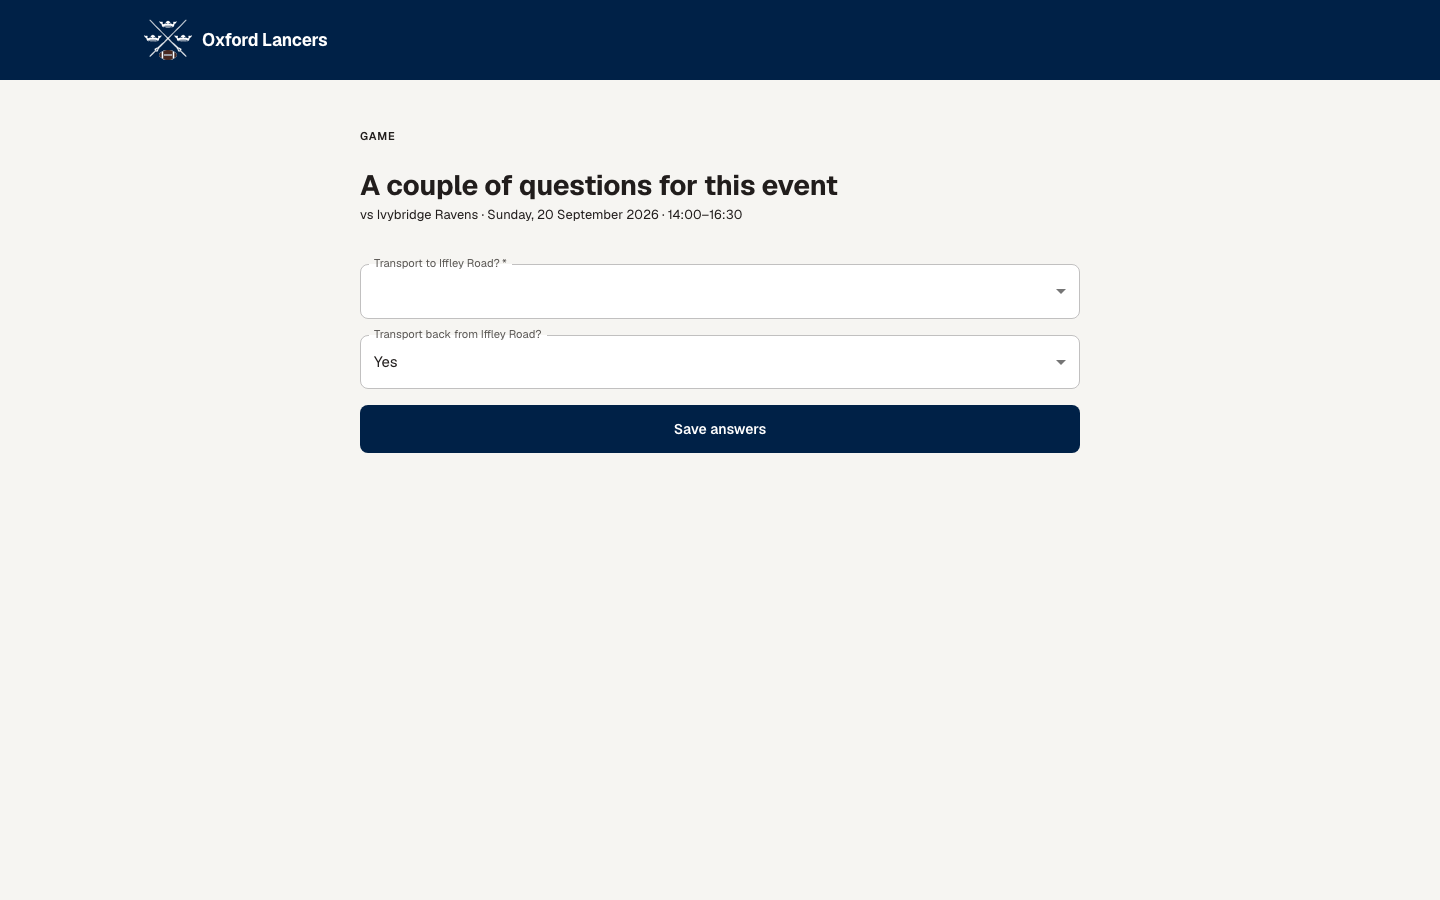
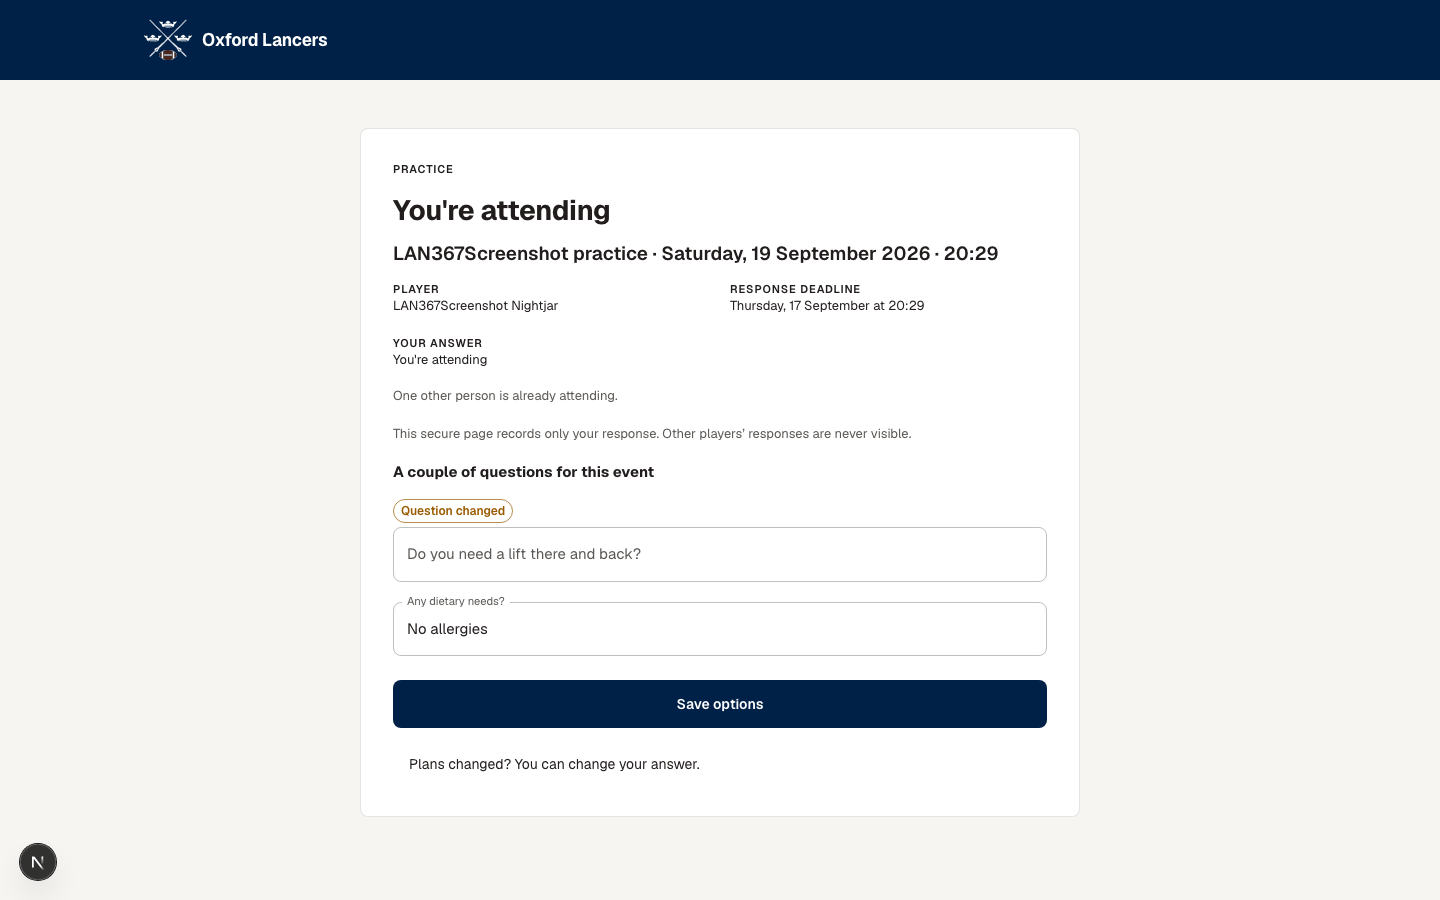
LAN-367: label a re-asked question on the player's pages
A question whose answer was superseded by a change reads as
outstanding on the player's own pages, identically to a question
nobody has ever answered -- the two are indistinguishable, so a
re-asked player has no way to tell "I already answered this once"
from "this is new". Advisory A3 recorded the gap; this closes it.

`readPlayerAnswerLandingIn` (player-home.ts) now reports `wasChanged`
per question -- true only while a superseded answer exists for that
(invitation, question) pair and the question is still genuinely
outstanding; re-answering it clears the flag along with the
outstanding state itself. `QuestionField`, the one component shared by
`/a/<yes|no>/[token]`'s landing, `/questions/[token]` and
`/events/[token]`'s focused panel, renders a small "Question changed"
label beside the field when it is set -- a label only, never a
sentence. Recruitment's own questionnaire (background/[token]) reuses
the same type for an unrelated purpose and never supersedes, so its
synthetic questions carry `wasChanged: false`.

Adds a database test proving the distinction (a superseded answer
marks `wasChanged`; a brand new question does not; re-answering clears
it) and a screens test proving the label renders on exactly the
changed question. Re-captures the LAN-367 player-questions-outstanding
screenshot pair (desktop and 375px), built against a real superseded
answer and a real answer-link token, and updates the README line.

diff --git a/src/lib/services/player-home.test.ts b/src/lib/services/player-home.test.ts
@@ -386,6 +386,66 @@ describe("the answer-specific landing content", () => {
     const landing = await withTransaction((tx) => readPlayerAnswerLandingIn(tx, invitationId));
     expect(landing.outstandingRequiredQuestions).toBe(1);
   });
+
+  // LAN-367 correction (A3): a question superseded by a change is told apart
+  // from one nobody has ever answered — both are "outstanding", but only the
+  // first is `wasChanged`.
+  it("marks a question outstanding because a change superseded its answer, not a brand new one nobody has ever answered", async () => {
+    const { invitationId, eventId } = await fixture(48, "-changed");
+    const changedQuestion = await observer.query<{ id: string }>(
+      `insert into public.event_questions (event_id, prompt, answer_type, is_required, applies_to_capacities)
+       values ($1, 'Need a lift?', 'text', false, '{player}') returning id`,
+      [eventId],
+    );
+    const neverAskedQuestion = await observer.query<{ id: string }>(
+      `insert into public.event_questions (event_id, prompt, answer_type, is_required, applies_to_capacities)
+       values ($1, 'Brand new question', 'text', false, '{player}') returning id`,
+      [eventId],
+    );
+    // The same shape `supersedeAnswersToChangedQuestionsIn` leaves behind: a
+    // live answer voided by a change, current read filters it out.
+    await observer.query(
+      `insert into public.question_responses
+         (invitation_id, event_id, event_question_id, answer_text, superseded_at, superseded_reason)
+       values ($1, $2, $3, 'Yes please', now(), 'question changed')`,
+      [invitationId, eventId, changedQuestion.rows[0].id],
+    );
+
+    const landing = await withTransaction((tx) => readPlayerAnswerLandingIn(tx, invitationId));
+    const changed = landing.questions.find((q) => q.id === changedQuestion.rows[0].id);
+    const brandNew = landing.questions.find((q) => q.id === neverAskedQuestion.rows[0].id);
+
+    expect(changed?.currentAnswer).toBeNull();
+    expect(changed?.wasChanged).toBe(true);
+    expect(brandNew?.currentAnswer).toBeNull();
+    expect(brandNew?.wasChanged).toBe(false);
+  });
+
+  it("stops marking a question wasChanged once the invitee answers it again", async () => {
+    const { invitationId, eventId } = await fixture(48, "-reanswered");
+    const question = await observer.query<{ id: string }>(
+      `insert into public.event_questions (event_id, prompt, answer_type, is_required, applies_to_capacities)
+       values ($1, 'Need a lift?', 'text', false, '{player}') returning id`,
+      [eventId],
+    );
+    await observer.query(
+      `insert into public.question_responses
+         (invitation_id, event_id, event_question_id, answer_text, superseded_at, superseded_reason)
+       values ($1, $2, $3, 'Yes please', now(), 'question changed')`,
+      [invitationId, eventId, question.rows[0].id],
+    );
+    await observer.query(
+      `insert into public.question_responses (invitation_id, event_id, event_question_id, answer_text)
+       values ($1, $2, $3, 'No thanks')`,
+      [invitationId, eventId, question.rows[0].id],
+    );
+
+    const landing = await withTransaction((tx) => readPlayerAnswerLandingIn(tx, invitationId));
+    const reanswered = landing.questions.find((q) => q.id === question.rows[0].id);
+
+    expect(reanswered?.currentAnswer).toEqual({ text: "No thanks", boolean: null, choice: null });
+    expect(reanswered?.wasChanged).toBe(false);
+  });
 });
 
 describe("saving event questions", () => {

diff --git a/src/components/question-field.tsx b/src/components/question-field.tsx
@@ -1,12 +1,15 @@
+import Chip from "@mui/material/Chip";
+import Stack from "@mui/material/Stack";
 import { Field, SelectField } from "@/components/field";
 
 import type { EventQuestionForAnswer } from "@/lib/services/player-home";
 
 /**
  * One event question's answer control — text, boolean or choice. Shared by
- * `/a/<yes|no>/[token]`'s landing page and `/events/[token]`'s focused panel. A hidden
- * `qkind_<id>` field rides beside the answer so the server action can parse
- * `q_<id>` without a second database round trip.
+ * `/a/<yes|no>/[token]`'s landing page, `/questions/[token]`'s own page, and
+ * `/events/[token]`'s focused panel. A hidden `qkind_<id>` field rides
+ * beside the answer so the server action can parse `q_<id>` without a
+ * second database round trip.
  *
  * `enforceRequired` (OWNER-LAN172-18): `/a/<yes|no>/[token]` passes `false` because
  * its confirm button shares one `<form>` with the questions, so native
@@ -27,10 +30,25 @@ export function QuestionField({
   const kindField = (
     <input type="hidden" name={`qkind_${question.id}`} value={question.answerType} />
   );
+  // LAN-367 correction (A3): a label only, beside the question, so an
+  // invitee who already answered once is not left thinking their answer
+  // never arrived — never a sentence, the same rule every other state on
+  // this surface keeps.
+  const changedLabel = question.wasChanged ? (
+    <Chip
+      size="small"
+      variant="outlined"
+      color="warning"
+      label="Question changed"
+      data-testid="question-changed-label"
+      sx={{ alignSelf: "flex-start" }}
+    />
+  ) : null;
 
   if (question.answerType === "boolean") {
     return (
-      <>
+      <Stack spacing={0.5}>
+        {changedLabel}
         {kindField}
         <SelectField
           name={name}
@@ -49,12 +67,13 @@ export function QuestionField({
             { value: "false", label: "No" },
           ]}
         />
-      </>
+      </Stack>
     );
   }
   if (question.answerType === "choice") {
     return (
-      <>
+      <Stack spacing={0.5}>
+        {changedLabel}
         {kindField}
         <SelectField
           name={name}
@@ -66,11 +85,12 @@ export function QuestionField({
             ...(question.choices ?? []).map((choice) => ({ value: choice, label: choice })),
           ]}
         />
-      </>
+      </Stack>
     );
   }
   return (
-    <>
+    <Stack spacing={0.5}>
+      {changedLabel}
       {kindField}
       <Field
         name={name}
@@ -79,6 +99,6 @@ export function QuestionField({
         defaultValue={question.currentAnswer?.text ?? ""}
         slotProps={{ htmlInput: { maxLength: 500 } }}
       />
-    </>
+    </Stack>
   );
 }

diff --git a/src/lib/services/player-home.ts b/src/lib/services/player-home.ts
@@ -44,6 +44,14 @@ export interface EventQuestionForAnswer {
   readonly choices: readonly string[] | null;
   readonly isRequired: boolean;
   readonly currentAnswer: EventQuestionAnswer | null;
+  /**
+   * LAN-367 correction (A3): true when this question reads as outstanding
+   * because a change superseded the invitee's earlier answer to it, rather
+   * than because nobody has ever answered it. `QuestionField` is the one
+   * place this is shown — a short label, never a sentence — so a player who
+   * already answered once is not left thinking their answer never arrived.
+   */
+  readonly wasChanged: boolean;
 }
 
 export interface PlayerAnswerLanding {
@@ -179,9 +187,20 @@ export async function readPlayerAnswerLandingIn(
     answer_text: string | null;
     answer_boolean: boolean | null;
     answer_choice: string | null;
+    was_changed: boolean;
   }>(
     `select q.id, q.prompt, q.answer_type::text as answer_type, q.choices, q.is_required,
-            qr.answer_text, qr.answer_boolean, qr.answer_choice
+            qr.answer_text, qr.answer_boolean, qr.answer_choice,
+            -- LAN-367 correction (A3): outstanding because a change superseded
+            -- this invitee's earlier answer, told apart from a question they
+            -- have simply never answered.
+            exists (
+              select 1
+                from public.question_responses sup
+               where sup.event_question_id = q.id
+                 and sup.invitation_id = $2
+                 and sup.superseded_at is not null
+            ) as was_changed
        from public.event_questions q
        -- LAN-367: a superseded answer is not an answer. The question it was
        -- given to changed after the invitation went out, so it reads as
@@ -209,6 +228,13 @@ export async function readPlayerAnswerLandingIn(
       q.answer_text !== null || q.answer_boolean !== null || q.answer_choice !== null
         ? { text: q.answer_text, boolean: q.answer_boolean, choice: q.answer_choice }
         : null,
+    // A question with a live answer is not "changed, please re-answer" —
+    // that reading applies only while it is genuinely outstanding.
+    wasChanged:
+      q.was_changed &&
+      q.answer_text === null &&
+      q.answer_boolean === null &&
+      q.answer_choice === null,
   }));
 
   return {

diff --git a/src/app/a/[answer]/[token]/screens.test.tsx b/src/app/a/[answer]/[token]/screens.test.tsx
@@ -81,6 +81,18 @@ const QUESTION: EventQuestionForAnswer = {
   choices: null,
   isRequired: true,
   currentAnswer: null,
+  wasChanged: false,
+};
+
+/** LAN-367 correction: outstanding because a change superseded the earlier answer, not because nobody ever answered. */
+const CHANGED_QUESTION: EventQuestionForAnswer = {
+  id: "00000000-0000-4000-8000-0000000000bb",
+  prompt: "Do you need a lift there and back?",
+  answerType: "text",
+  choices: null,
+  isRequired: false,
+  currentAnswer: null,
+  wasChanged: true,
 };
 
 const TOKEN = "y.00000000-0000-4000-8000-000000000079.abcdefghijklmnopqrstuvwxyzABCDEFGHIJKLM01";
@@ -254,6 +266,21 @@ describe("OWNER-LAN172-12 — the Yes landing asks the event's own questions its
     const text = (await renderPage()).container.textContent ?? "";
 
     expect(text).toContain("Plans changed? You can change your answer.");
+  });
+
+  // LAN-367 correction (A3): a question superseded by a change reads as
+  // outstanding here, same as one nobody has ever answered — but it now
+  // carries its own short label, so the two are not mistaken for each other.
+  it("labels a question superseded by a change, and never labels an ordinary outstanding one", async () => {
+    givenAnswer("yes", [QUESTION, CHANGED_QUESTION]);
+    const { container } = await renderPage();
+
+    // Exactly one label, for the two questions rendered — QUESTION (an
+    // ordinary outstanding required question) never gets one.
+    const labels = container.querySelectorAll('[data-testid="question-changed-label"]');
+    expect(labels).toHaveLength(1);
+    expect(labels[0].textContent).toBe("Question changed");
+    expect(container.textContent).toContain(CHANGED_QUESTION.prompt);
   });
 });
 

diff --git a/src/app/background/[token]/interest-questionnaire.tsx b/src/app/background/[token]/interest-questionnaire.tsx
@@ -47,6 +47,9 @@ function questionsFor(answers: RecruitmentQuestionnaireAnswers): readonly EventQ
         answers.playedBefore === null
           ? null
           : { text: null, boolean: answers.playedBefore === "yes", choice: null },
+      // Recruitment's own questionnaire never supersedes an answer — LAN-367's
+      // re-ask is an event-question mechanism, not this one.
+      wasChanged: false,
     },
     {
       id: "B2",
@@ -58,6 +61,7 @@ function questionsFor(answers: RecruitmentQuestionnaireAnswers): readonly EventQ
         answers.watchedBefore === null
           ? null
           : { text: null, boolean: answers.watchedBefore === "yes", choice: null },
+      wasChanged: false,
     },
     {
       id: "B5",
@@ -69,6 +73,7 @@ function questionsFor(answers: RecruitmentQuestionnaireAnswers): readonly EventQ
         answers.howTheyHeard === null
           ? null
           : { text: null, boolean: null, choice: answers.howTheyHeard },
+      wasChanged: false,
     },
     {
       id: "B6",
@@ -80,6 +85,7 @@ function questionsFor(answers: RecruitmentQuestionnaireAnswers): readonly EventQ
         answers.anythingElse === null
           ? null
           : { text: answers.anythingElse, boolean: null, choice: null },
+      wasChanged: false,
     },
   ];
 }

diff --git a/src/app/events/[token]/screens.test.tsx b/src/app/events/[token]/screens.test.tsx
@@ -224,6 +224,7 @@ const QUESTION: EventQuestionForAnswer = {
   choices: null,
   isRequired: true,
   currentAnswer: null,
+  wasChanged: false,
 };
 
 const OPTIONAL_QUESTION: EventQuestionForAnswer = {
@@ -233,6 +234,7 @@ const OPTIONAL_QUESTION: EventQuestionForAnswer = {
   choices: null,
   isRequired: false,
   currentAnswer: null,
+  wasChanged: false,
 };
 
 const YES_ENTRY = invitation({

diff --git a/src/app/questions/[token]/screens.test.tsx b/src/app/questions/[token]/screens.test.tsx
@@ -76,6 +76,7 @@ const QUESTION: EventQuestionForAnswer = {
   choices: null,
   isRequired: true,
   currentAnswer: null,
+  wasChanged: false,
 };
 
 function given(state: TokenState, questions: readonly EventQuestionForAnswer[]): void {

diff --git a/docs/ux/review/LAN-353-2/README.md b/docs/ux/review/LAN-353-2/README.md
@@ -72,10 +72,10 @@ The same three routes as LAN-365: one save, one screen, two issues.
 | ----------------------------------------------------------------------- | ------------------------------------------------------------ |
 | `desktop-rsvp-deadline-passed.png`, `phone375-rsvp-deadline-passed.png` | The deadline line on a link whose deadline has already gone. |
 
-## LAN-367 — a changed question voids its answers
+## LAN-367 — a changed question voids its answers, and the sweep sends the re-ask
 
-| File                                                                                    | What it shows                                                                                                                             |
-| --------------------------------------------------------------------------------------- | ----------------------------------------------------------------------------------------------------------------------------------------- |
-| `desktop-questions-editor.png`, `phone375-questions-editor.png`                         | The editor before a save.                                                                                                                 |
-| `desktop-questions-editor-confirm.png`, `phone375-questions-editor-confirm.png`         | The confirmation: **1 question changed, 19 people will be asked again**, with the correction tick.                                        |
-| `desktop-player-questions-outstanding.png`, `phone375-player-questions-outstanding.png` | The player's own page afterwards: the changed question reads as outstanding, the unchanged one keeps its answer, and their yes/no stands. |
+| File                                                                                    | What it shows                                                                                                                                                                                                      |
+| --------------------------------------------------------------------------------------- | ------------------------------------------------------------------------------------------------------------------------------------------------------------------------------------------------------------------ |
+| `desktop-questions-editor.png`, `phone375-questions-editor.png`                         | The editor before a save.                                                                                                                                                                                          |
+| `desktop-questions-editor-confirm.png`, `phone375-questions-editor-confirm.png`         | The confirmation: **1 question changed, 19 people will be asked again**, with the correction tick.                                                                                                                 |
+| `desktop-player-questions-outstanding.png`, `phone375-player-questions-outstanding.png` | Correction round: the player's own page afterwards. The changed question now carries its own **Question changed** label beside it, told apart from the unchanged one, which keeps its answer; their yes/no stands. |
